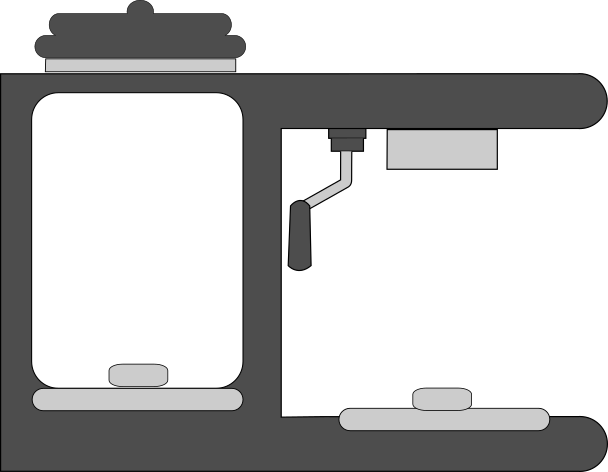
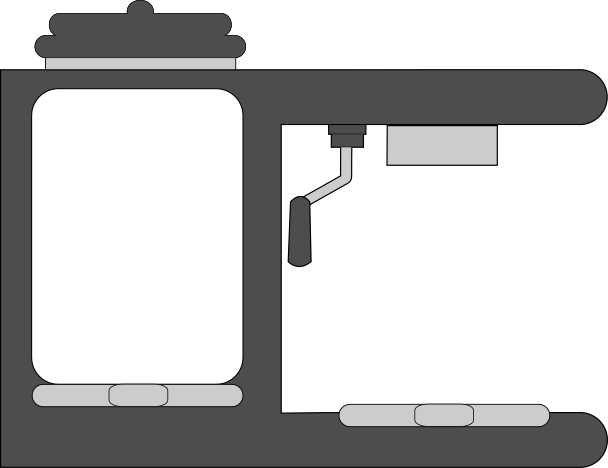
modifying pot

diff --git a/src/view/CoffeeMakerGui.java b/src/view/CoffeeMakerGui.java
@@ -16,9 +16,9 @@ public class CoffeeMakerGui extends JFrame {
 	final String OPEN_VALVE = "resources/open.png";
 	final String CLOSED_VALVE = "resources/closed.png";
 	final String POT = "resources/pot.png";
-	final String POT_EMPTY = "resources/pot.png";
+	final String POT_EMPTY = "resources/potEmpty.png";
 	final String POT_NOT_EMPTY = "resources/pot.png";
-	final String FILTER = "resources/filter.png";
+	final String FILTER = "resources/filterEmpty.png";
 	final String NOT_WATER = "resources/notWater.png";
 	final String WATER = "resources/Water.png";
 	final String COFFEE = "resources/coffee.png";
@@ -68,10 +68,10 @@ public class CoffeeMakerGui extends JFrame {
 		panel_1.add(coffee);
 		
 		water.setIcon(new ImageIcon(NOT_WATER));
-		water.setBounds(31, 93, 212, 297);
+		water.setBounds(31, 90, 212, 297);
 		panel_1.add(water);
 		
-		//pot.setIcon(new ImageIcon(POT));
+		pot.setIcon(new ImageIcon(POT_EMPTY));
 		pot.setBounds(330, 223, 250, 185);
 		panel_1.add(pot);
 		
